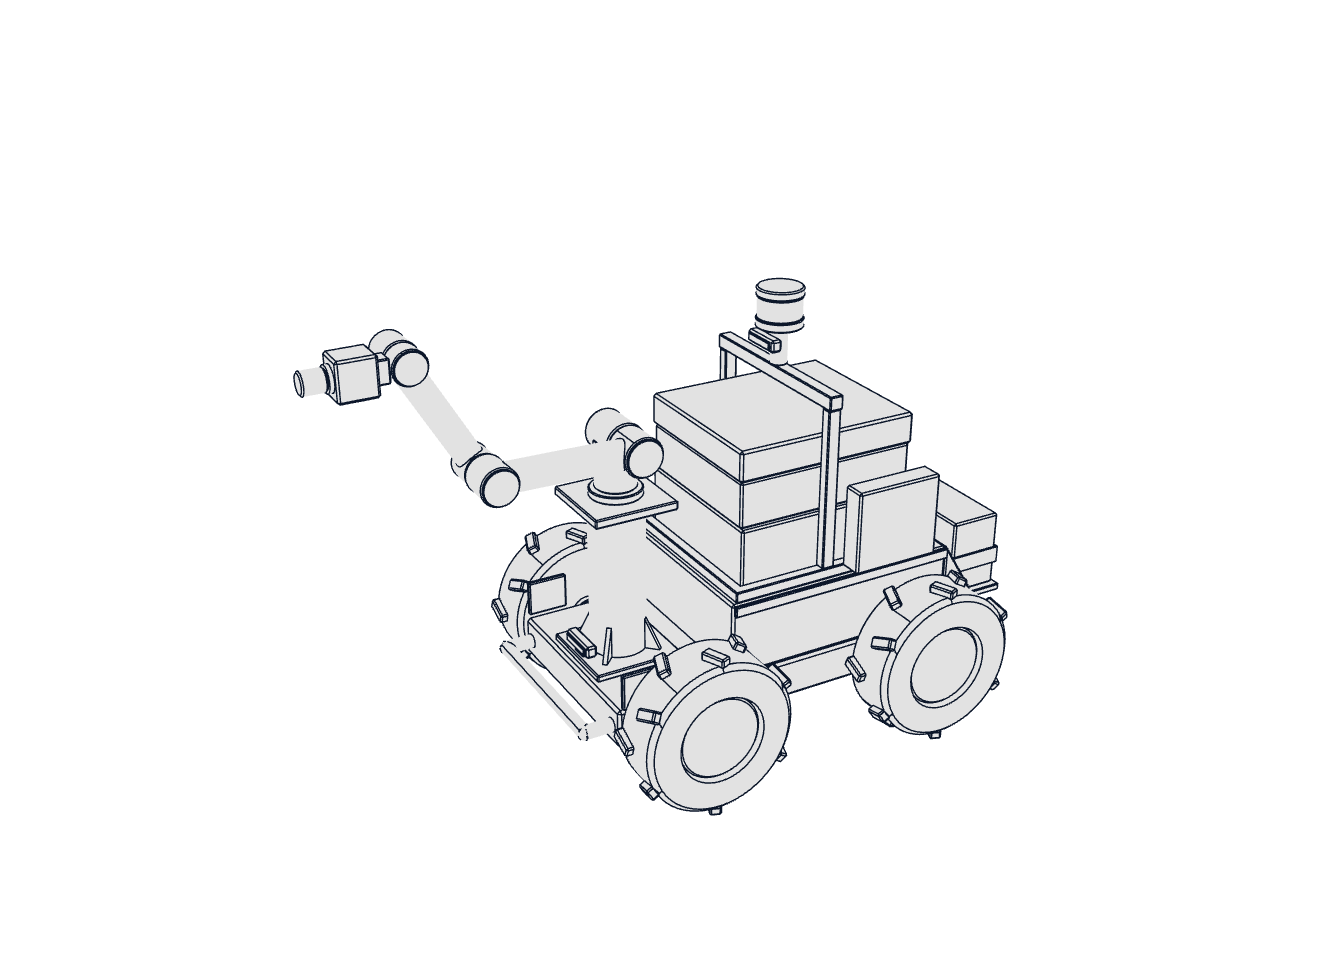
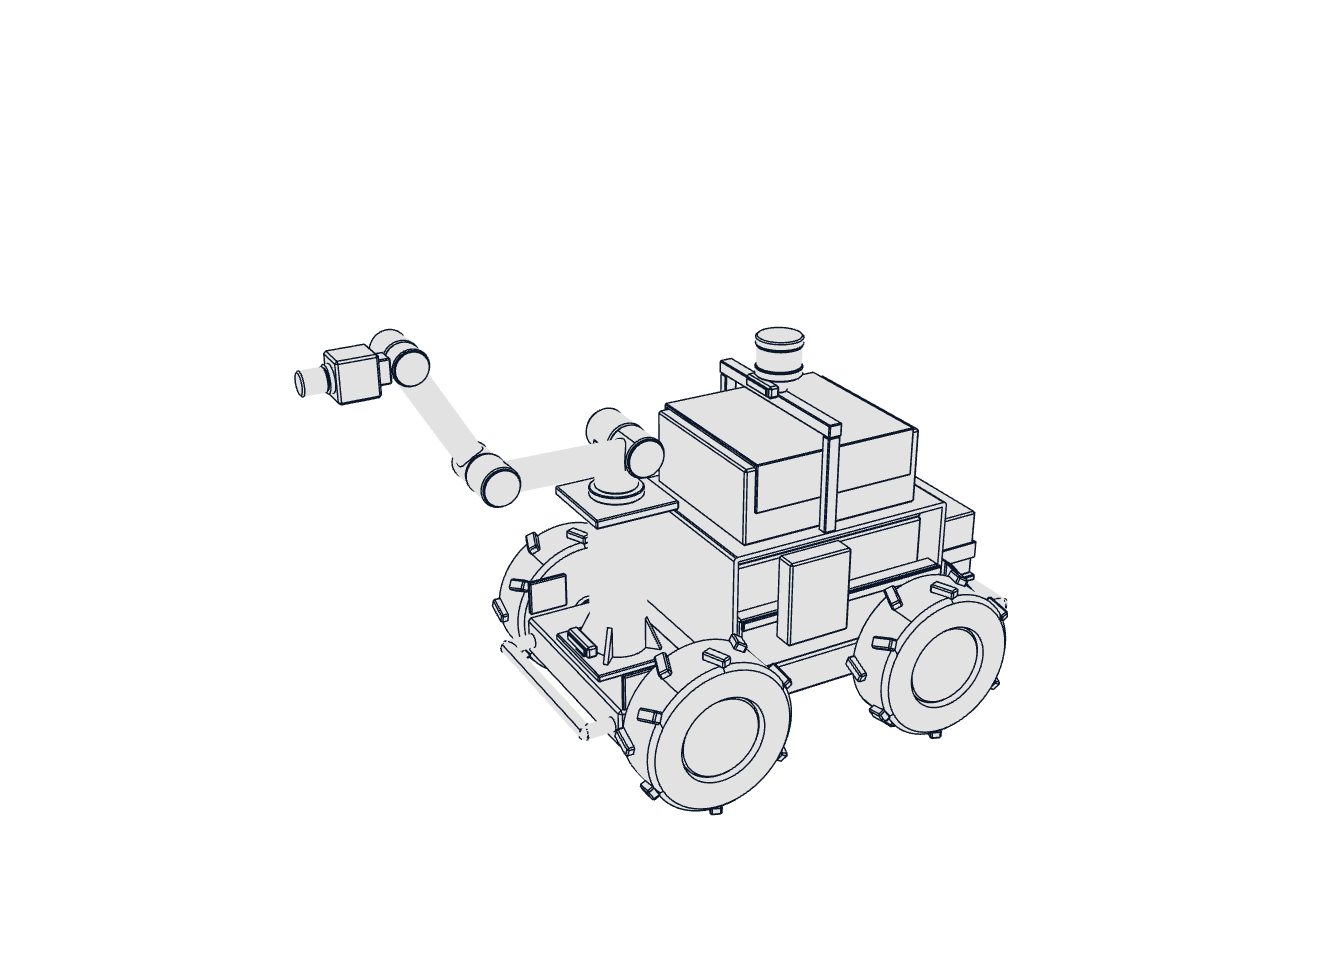
fix(3d): match Inductive IR3 inverted-U bridge, tall battery, single inverter, and split rear cowl

Changed region(s): [[0.3438, 0.2755, 0.75, 0.8265], [0.2188, 0.3367, 0.3125, 0.4286], [0.3438, 0.4592, 0.375, 0.5204]]

diff --git a/src/canvas/models/InductiveRobotModel.tsx b/src/canvas/models/InductiveRobotModel.tsx
@@ -102,13 +102,15 @@ const ARM_WRIST_NAMES = new Set([
 
 const PART_NAME_COLORS: Record<string, string> = {
   chassis_lower_pan: '#1e293b',
-  chassis_mid_body: '#1e293b',
+  chassis_side_wall_l: '#1e293b',
+  chassis_side_wall_r: '#1e293b',
   bumper_front: '#1e293b',
   bumper_rear: '#1e293b',
   gantry_post_l: '#1e293b',
   gantry_post_r: '#1e293b',
   gantry_crossbar: '#1e293b',
   lidar_mast: '#1e293b',
+  side_compute_bracket: '#1e293b',
   rear_battery_pack: '#1e293b',
   arm_base_collar: '#1e293b',
   arm_coupler_body: '#1e293b',
@@ -120,12 +122,13 @@ const PART_NAME_COLORS: Record<string, string> = {
   wheel_tire_fr: '#0f172a',
   wheel_tire_rl: '#0f172a',
   wheel_tire_rr: '#0f172a',
-  husky_rear_cowl: '#f59e0b',
+  husky_rear_cowl_l: '#f59e0b',
+  husky_rear_cowl_r: '#f59e0b',
   husky_side_trim_l: '#f59e0b',
   husky_side_trim_r: '#f59e0b',
   husky_front_trim_l: '#f59e0b',
   husky_front_trim_r: '#f59e0b',
-  charger_shell_yellow: '#f59e0b',
+  inverter_yellow_shroud: '#f59e0b',
   pedestal_base_plate: '#94a3b8',
   pedestal_column: '#94a3b8',
   lidar_cap: '#94a3b8',
@@ -141,11 +144,12 @@ const PART_NAME_COLORS: Record<string, string> = {
   axle_stub_rr: '#334155',
   side_compute_box: '#334155',
   rear_battery_tray: '#334155',
-  battery_subframe: '#475569',
-  charger_body: '#475569',
+  inverter_body: '#475569',
+  battery_pack_main: '#1e3a8a',
+  battery_pack_top: '#b91c1c',
   front_depth_cam_body: '#cbd5e1',
   mast_depth_cam_body: '#cbd5e1',
-  battery_pack_main: '#cbd5e1',
+  sheet_metal_bridge: '#cbd5e1',
   lidar_base: '#cbd5e1',
   arm_coupler_nozzle: '#cbd5e1',
   rear_battery_strap: '#dc2626',

diff --git a/src/canvas/ModelPreloadManager.ts b/src/canvas/ModelPreloadManager.ts
@@ -2,7 +2,7 @@ import React from 'react';
 
 let dracoConfigured = false;
 
-export const POSTER_VERSION = '20261121-v8';
+export const POSTER_VERSION = '20261121-v9';
 
 let isWindowScrolling = false;
 let scrollStopTimer: ReturnType<typeof setTimeout> | null = null;
